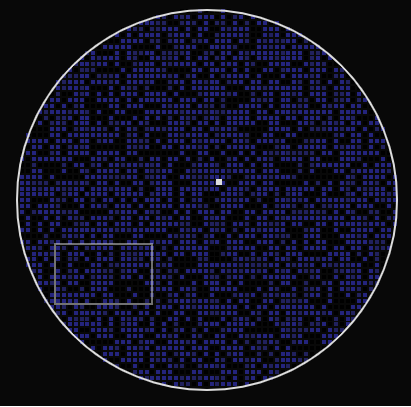
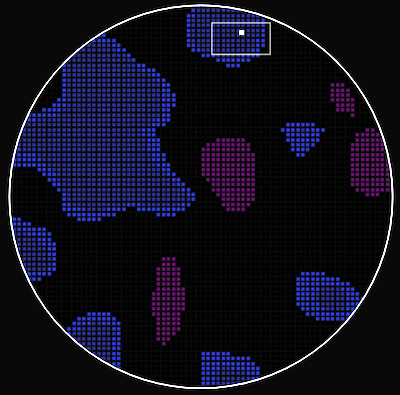
feat!: v6 minimap patch - updated exports, df calls, and added corrupted space (#45)
* v6 minimap patch: updated exports, df calls, and added corrupted space typpe

* Update content/utilities/mini-map/plugin.js

* Update content/utilities/mini-map/plugin.js

* tweaked default map size added screenshot

* shuffled screenshots around so v6 gets displayed

* chore: Update content for minimap

diff --git a/content/utilities/mini-map/plugin.js b/content/utilities/mini-map/plugin.js
@@ -24,7 +24,7 @@ class Plugin {
     this.canvas = document.createElement('canvas');
     this.minDensity = 1000;
     this.maxDensity = 10000;
-  }
+  } 
 
   async render(div) {
 
@@ -125,7 +125,7 @@ class Plugin {
       canvasStepper.min = '400';
       canvasStepper.max = '1000';
       canvasStepper.step = '10';
-      canvasStepper.value = '800';
+      canvasStepper.value = '400';
       canvasStepper.style.width = '100%';
       canvasStepper.style.height = '12px';
 
@@ -158,7 +158,9 @@ class Plugin {
               data.push({
                 x: i,
                 y: j,
-                type: df.spaceTypeFromPerlin(df.getPerlin({x: i, y: j}))
+                type: df.spaceTypeFromPerlin(
+                  df.spaceTypePerlin({ x: i, y: j })
+                ),
               })
             }
           }
@@ -175,6 +177,8 @@ class Plugin {
             ctx.fillStyle = '#24247d'; // outer nebula
           } else if (data[i].type === 2) {
             ctx.fillStyle = '#000000'; // deep space
+          } else if (data[i].type === 3) {
+            ctx.fillStyle = "#460046"; // Corrupted slightly brighter for better visibility
           }
           ctx.fillRect( normalize(data[i].x) + 10, normalize(data[i].y * -1) + 10, dot, dot );
         }
@@ -239,4 +243,4 @@ class Plugin {
   }
 }
 
-plugin.register(new Plugin());
+export default Plugin;

diff --git a/content/utilities/mini-map/index.md b/content/utilities/mini-map/index.md
@@ -1,5 +1,6 @@
 ---
 title: Mini-Map
-date: 2021-01-11
-subtitle: disolve the fog of war
+date: 2021-05-20
+subtitle: Disolve the fog of war.
+version: 0.6.0
 ---
